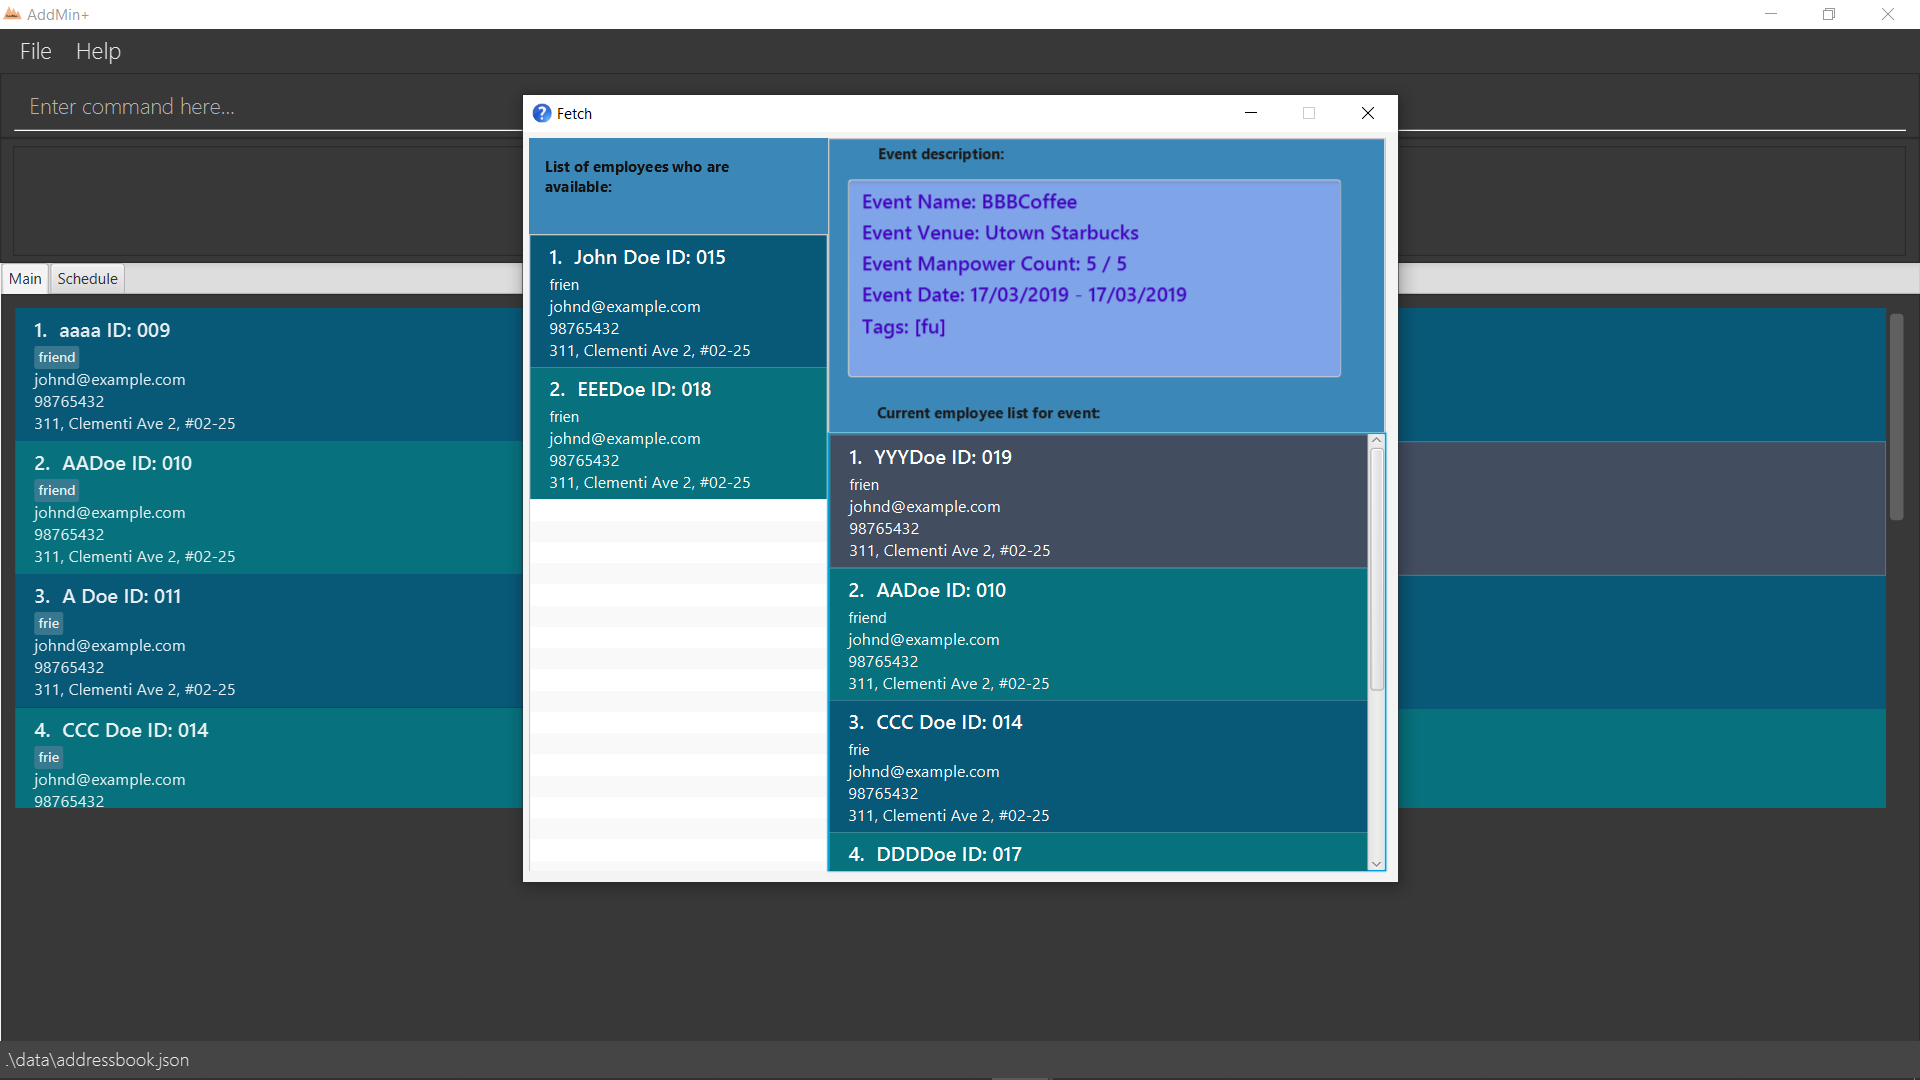
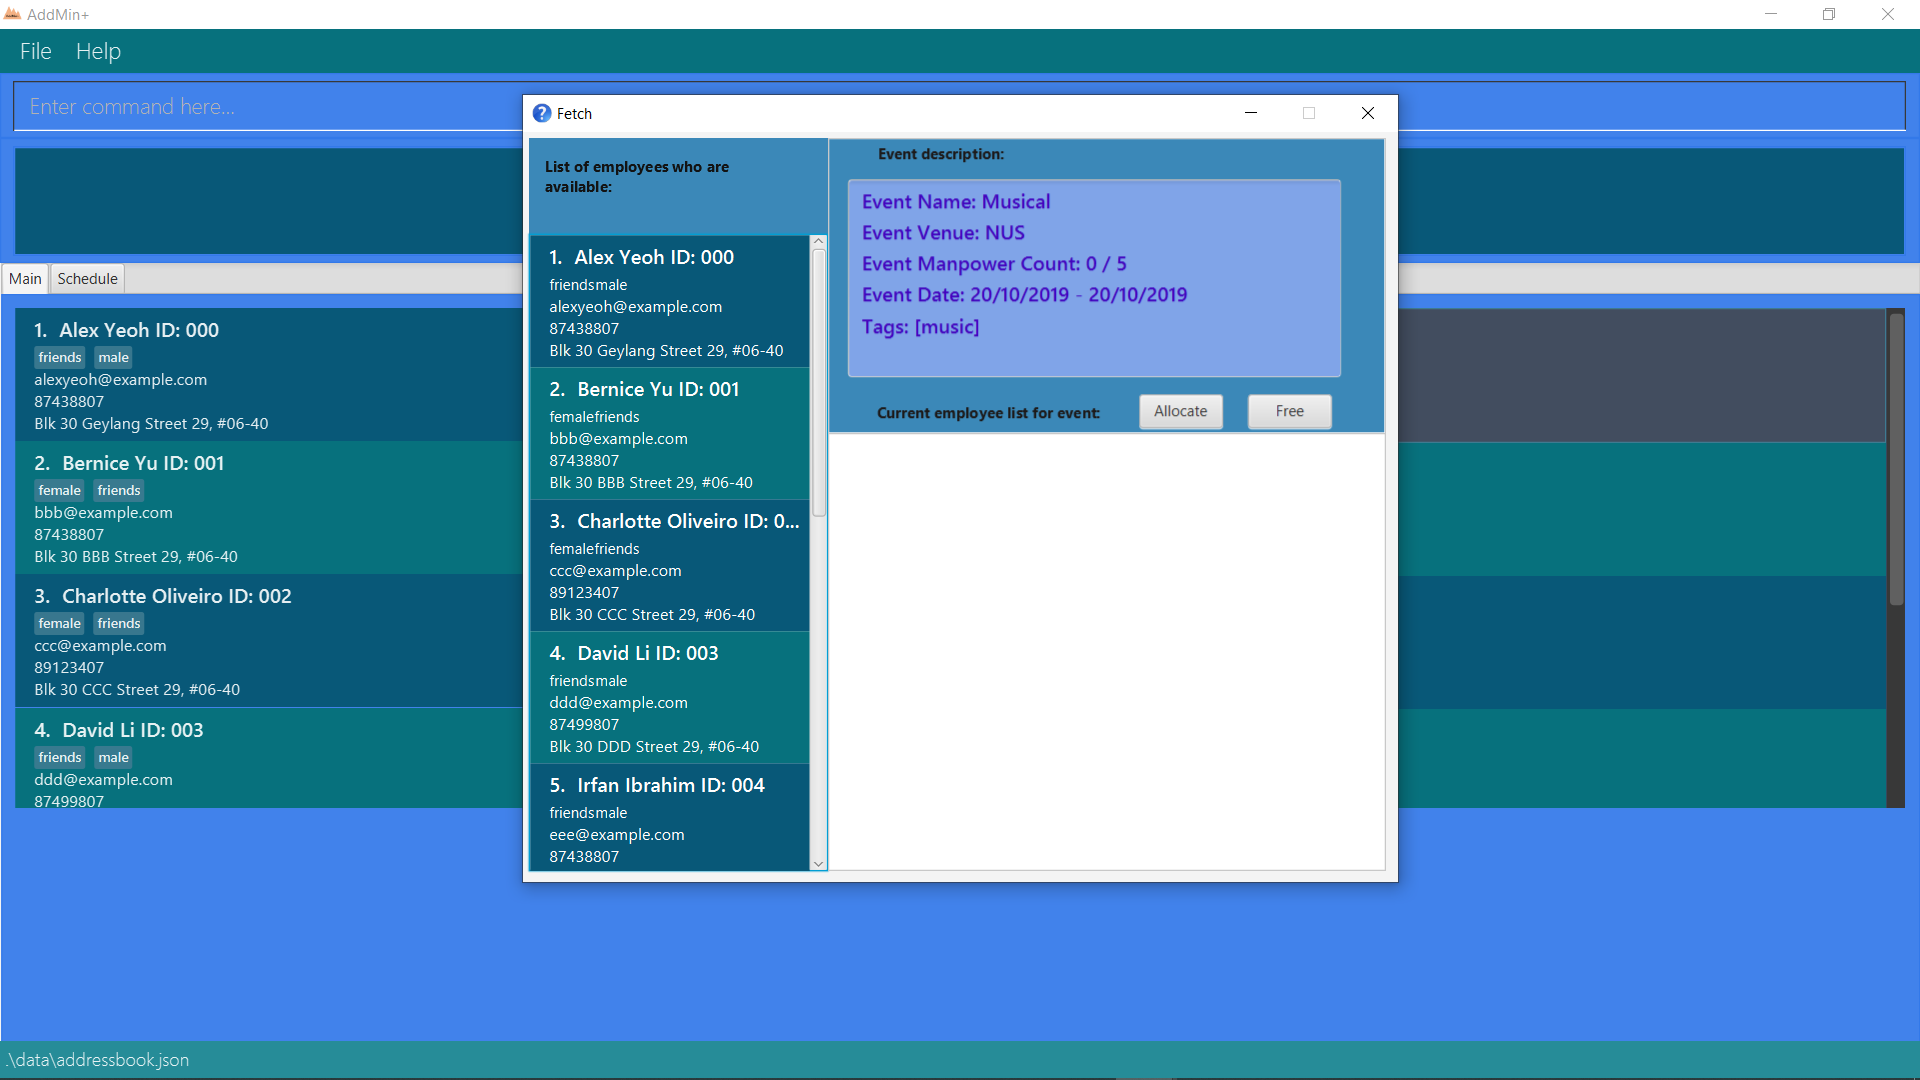
GUI feature for allocate and free, update picture for ug

diff --git a/src/main/java/seedu/address/ui/FetchWindow.java b/src/main/java/seedu/address/ui/FetchWindow.java
@@ -5,13 +5,19 @@ import java.util.stream.Collectors;
 
 import javafx.collections.FXCollections;
 import javafx.collections.ObservableList;
+import javafx.event.EventHandler;
 import javafx.fxml.FXML;
+import javafx.scene.control.Button;
 import javafx.scene.control.ListCell;
 import javafx.scene.control.ListView;
 import javafx.scene.control.TextArea;
+import javafx.scene.input.MouseEvent;
 import javafx.scene.text.Text;
 import javafx.stage.Stage;
 import seedu.address.commons.core.LogsCenter;
+import seedu.address.logic.Logic;
+import seedu.address.logic.commands.exceptions.CommandException;
+import seedu.address.logic.parser.exceptions.ParseException;
 import seedu.address.model.employee.Employee;
 import seedu.address.model.event.Event;
 
@@ -41,52 +47,90 @@ public class FetchWindow extends UiPart<Stage> {
     @FXML
     private Text availableListHeader;
 
+    @FXML
+    private Button allocateButton;
+
+    @FXML
+    private Button freeButton;
+
+
+
     /**
      * Creates a new FetchWindow.
      *
      * @param root Stage to use as the root of the FetchWindow.
      */
-    public FetchWindow(Stage root, ObservableList<Employee> employeeList,
-                       ObservableList<Event> filteredEventList, Event event) {
+    public FetchWindow(Stage root, Logic logic, Integer index) {
         super(FXML, root);
-        ObservableList<Employee> list = event.getManpowerAllocatedList().getManpowerList().stream()
-                .flatMap(x -> employeeList.stream().map(y -> y.getEmployeeId().id.equals(x) ? y : new Employee()))
-                .filter(employee -> employee.getEmployeeName() != null)
-                .collect(Collectors.toCollection(FXCollections::observableArrayList));
+        ObservableList<Employee> employeeList = logic.getFilteredEmployeeList();
+        ObservableList<Event> filteredEventList = logic.getFilteredEventList();
+        Event event = logic.getFilteredEventList().get(index);
+        ObservableList<Employee> employeeListForEvent = getEmployeeListForEvent(event, employeeList);
+
+        eventDescription.setText(event.toStringWithNewLine());
         personListView.setItems(employeeList.filtered(x -> event.isAvailableForEvent(x, filteredEventList)));
         personListView.setCellFactory(listView -> new PersonListViewCell());
-        eventListView.setItems(list);
+        eventListView.setItems(employeeListForEvent);
         eventListView.setCellFactory(listView -> new FetchWindow.PersonListViewCell());
-        eventDescription.setText(event.toStringWithNewLine());
-        //currentListHeader.setText("Current employee list for event:");
-        //availableListHeader.setText("List of employees who are available:");
+        EventHandler<MouseEvent> handleAllocate = new EventHandler<MouseEvent>() {
+            @Override
+            public void handle(MouseEvent e) {
+                int oneBasedIndex = index + 1;
+                try {
+                    logic.execute("allocate " + oneBasedIndex);
+                    Event event = logic.getFilteredEventList().get(index);
+                    ObservableList<Employee> employeeListForEvent = getEmployeeListForEvent(event, employeeList);
+                    eventListView.setItems(employeeListForEvent);
+                    eventListView.setCellFactory(listView -> new FetchWindow.PersonListViewCell());
+                } catch (CommandException ex) {
+                    logger.fine("This should not appear!");
+                } catch (ParseException ex) {
+                    logger.fine("This should not appear!");
+                }
+            }
+        };
+
+        EventHandler<MouseEvent> handleFree = new EventHandler<MouseEvent>() {
+            @Override
+            public void handle(MouseEvent e) {
+                int oneBasedIndex = index + 1;
+                try {
+                    logic.execute("free " + oneBasedIndex);
+                    Event event = logic.getFilteredEventList().get(index);
+                    ObservableList<Employee> employeeListForEvent = getEmployeeListForEvent(event, employeeList);
+                    eventListView.setItems(employeeListForEvent);
+                    eventListView.setCellFactory(listView -> new FetchWindow.PersonListViewCell());
+                } catch (CommandException ex) {
+                    logger.fine("This should not appear!");
+                } catch (ParseException ex) {
+                    logger.fine("This should not appear!");
+                }
+            }
+        };
+        allocateButton.addEventFilter(MouseEvent.MOUSE_CLICKED, handleAllocate);
+        freeButton.addEventFilter(MouseEvent.MOUSE_CLICKED, handleFree);
     }
 
     /**
      * Creates a new FetchWindow.
      */
-    public FetchWindow(ObservableList<Employee> employeeList,
-                       ObservableList<Event> filteredEventList, Event event) {
-        this(new Stage(), employeeList, filteredEventList, event);
+    public FetchWindow(Logic logic, Integer index) {
+        this(new Stage(), logic, index);
     }
 
     /**
-     * Shows the help window.
-     * @throws IllegalStateException
-     * <ul>
-     *     <li>
-     *         if this method is called on a thread other than the JavaFX Application Thread.
-     *     </li>
-     *     <li>
-     *         if this method is called during animation or layout processing.
-     *     </li>
-     *     <li>
-     *         if this method is called on the primary stage.
-     *     </li>
-     *     <li>
-     *         if {@code dialogStage} is already showing.
-     *     </li>
-     * </ul>
+     * Gets the current list of employees for the event.
+     */
+    public ObservableList<Employee> getEmployeeListForEvent(Event event, ObservableList<Employee> employeeList) {
+        ObservableList<Employee> list = event.getManpowerAllocatedList().getManpowerList().stream()
+                .flatMap(x -> employeeList.stream().map(y -> y.getEmployeeId().id.equals(x) ? y : new Employee()))
+                .filter(employee -> employee.getEmployeeName() != null)
+                .collect(Collectors.toCollection(FXCollections::observableArrayList));
+        return list;
+    }
+
+    /**
+     * Shows the fetch window.
      */
     public void show() {
         logger.fine("Showing fetched event.");
@@ -96,14 +140,14 @@ public class FetchWindow extends UiPart<Stage> {
     }
 
     /**
-     * Returns true if the help window is currently being shown.
+     * Returns true if the fetch window is currently being shown.
      */
     public boolean isShowing() {
         return getRoot().isShowing();
     }
 
     /**
-     * Hides the help window.
+     * Hides the fetch window.
      */
     public void hide() {
         getRoot().hide();

diff --git a/src/main/java/seedu/address/logic/commands/AutoAllocateCommand.java b/src/main/java/seedu/address/logic/commands/AutoAllocateCommand.java
@@ -17,6 +17,10 @@ import seedu.address.logic.commands.exceptions.CommandException;
 import seedu.address.model.Model;
 import seedu.address.model.employee.Employee;
 import seedu.address.model.event.Event;
+import seedu.address.model.event.EventDate;
+import seedu.address.model.event.EventManpowerNeeded;
+import seedu.address.model.event.EventName;
+import seedu.address.model.event.EventVenue;
 import seedu.address.model.tag.Tag;
 
 /**
@@ -96,9 +100,14 @@ public class AutoAllocateCommand extends Command {
 
         if (manpowerCountToAdd == null) { //if manpower count is not specified
             this.manpowerCountToAdd = getManpowerNeededByEvent(eventToAllocate);
+        }
 
-        } else if (manpowerCountToAdd > manpowerNeededByEvent) {
+        if (manpowerCountToAdd > manpowerNeededByEvent) {
             throw new CommandException(Messages.MESSAGE_MANPOWER_COUNT_EXCEEDED);
+        }
+
+        if (manpowerCountToAdd == 0) {
+            throw new CommandException(Messages.MESSAGE_EVENT_FULL_MANPOWER);
         }
 
         model.updateFilteredEmployeeList(PREDICATE_SHOW_ALL_PERSONS);
@@ -112,14 +121,34 @@ public class AutoAllocateCommand extends Command {
 
         Collections.shuffle(availableEmployeeList);
 
+        Event newEventForAllocation = createEditedEvent(eventToAllocate);
+
         for (int i = 0; i < manpowerCountToAdd; i++) {
             Employee employeeToAdd = availableEmployeeList.get(i);
-            eventToAllocate.getManpowerAllocatedList().allocateEmployee(employeeToAdd);
+            newEventForAllocation.getManpowerAllocatedList().allocateEmployee(employeeToAdd);
         }
-        model.setEvent(eventToAllocate, eventToAllocate);
+        model.setEvent(eventToAllocate, newEventForAllocation);
 
         return new CommandResult(String.format(MESSAGE_ALLOCATE_EVENT_SUCCESS, eventToAllocate.getName().eventName,
                 manpowerCountToAdd));
+    }
+
+    /**
+     * Creates and returns a {@code Event} with the details of {@code eventToEdit}
+     */
+    private static Event createEditedEvent(Event eventToEdit) {
+        assert eventToEdit != null;
+
+        EventName updatedEventName = eventToEdit.getName();
+        EventVenue updatedEventVenue = eventToEdit.getVenue();
+        EventManpowerNeeded updatedManpowerNeeded = eventToEdit.getManpowerNeeded();
+        EventDate updatedStartDate = eventToEdit.getStartDate();
+        EventDate updatedEndDate = eventToEdit.getEndDate();
+        Set<Tag> updatedTags = eventToEdit.getTags();
+
+        return new Event(updatedEventName, updatedEventVenue,
+                updatedManpowerNeeded, updatedStartDate,
+                updatedEndDate, updatedTags);
     }
 
 

diff --git a/src/main/java/seedu/address/ui/MainWindow.java b/src/main/java/seedu/address/ui/MainWindow.java
@@ -16,6 +16,7 @@ import seedu.address.logic.Logic;
 import seedu.address.logic.commands.CommandResult;
 import seedu.address.logic.commands.exceptions.CommandException;
 import seedu.address.logic.parser.exceptions.ParseException;
+import seedu.address.model.Model;
 
 /**
  * The Main Window. Provides the basic application layout containing
@@ -29,6 +30,7 @@ public class MainWindow extends UiPart<Stage> {
 
     private Stage primaryStage;
     private Logic logic;
+    private Model model;
 
     // Independent Ui parts residing in this Ui container
     private ListPanel listPanel;
@@ -159,8 +161,7 @@ public class MainWindow extends UiPart<Stage> {
      */
     @FXML
     public void handleFetch(Integer index) {
-        fetchWindow = new FetchWindow(logic.getFilteredEmployeeList(),
-                logic.getFilteredEventList(), logic.getFilteredEventList().get(index));
+        fetchWindow = new FetchWindow(logic, index);
         //fetchWindow.getRoot().setScene();
         fetchWindow.getRoot().getScene().getStylesheets().add("view/FetchWindowTheme.css");
         if (!fetchWindow.isShowing()) {
@@ -184,6 +185,7 @@ public class MainWindow extends UiPart<Stage> {
         GuiSettings guiSettings = new GuiSettings(primaryStage.getWidth(), primaryStage.getHeight(),
                 (int) primaryStage.getX(), (int) primaryStage.getY());
         logic.setGuiSettings(guiSettings);
+        fetchWindow.hide();
         helpWindow.hide();
         primaryStage.hide();
     }

diff --git a/src/main/java/seedu/address/ui/EventCard.java b/src/main/java/seedu/address/ui/EventCard.java
@@ -5,6 +5,7 @@ import java.util.Comparator;
 import javafx.event.EventHandler;
 import javafx.fxml.FXML;
 import javafx.scene.control.Label;
+import javafx.scene.input.MouseButton;
 import javafx.scene.input.MouseEvent;
 import javafx.scene.layout.FlowPane;
 import javafx.scene.layout.HBox;
@@ -55,8 +56,12 @@ public class EventCard extends UiPart<Region> {
 
         EventHandler<MouseEvent> eventHandler = new EventHandler<MouseEvent>() {
             @Override
-            public void handle(MouseEvent e) {
-                mainWindow.handleFetch(index);
+            public void handle(MouseEvent mouseEvent) {
+                if (mouseEvent.getButton().equals(MouseButton.PRIMARY)) {
+                    if (mouseEvent.getClickCount() == 2) {
+                        mainWindow.handleFetch(index);
+                    }
+                }
             }
         };
         cardPane.addEventFilter(MouseEvent.MOUSE_CLICKED, eventHandler);

diff --git a/src/main/java/seedu/address/MainApp.java b/src/main/java/seedu/address/MainApp.java
@@ -48,7 +48,6 @@ public class MainApp extends Application {
     protected Logic logic;
     protected Storage storage;
     protected Model model;
-    protected Model eventModel;
     protected Config config;
 
     @Override
@@ -68,7 +67,6 @@ public class MainApp extends Application {
         initLogging(config);
 
         model = initModelManager(storage, userPrefs);
-        eventModel = initModelManager(storage, userPrefs);
         logic = new LogicManager(model, storage);
 
         ui = new UiManager(logic);

diff --git a/src/main/java/seedu/address/commons/core/Messages.java b/src/main/java/seedu/address/commons/core/Messages.java
@@ -16,4 +16,5 @@ public class Messages {
             + "exceeds manpower needed by event!";
     public static final String MESSAGE_INSUFFICIENT_MANPOWER_COUNT = "Insufficient manpower count for event! "
             + "(possibly due to schedule overlap)";
+    public static final String MESSAGE_EVENT_FULL_MANPOWER = "Event has full manpower!";
 }
